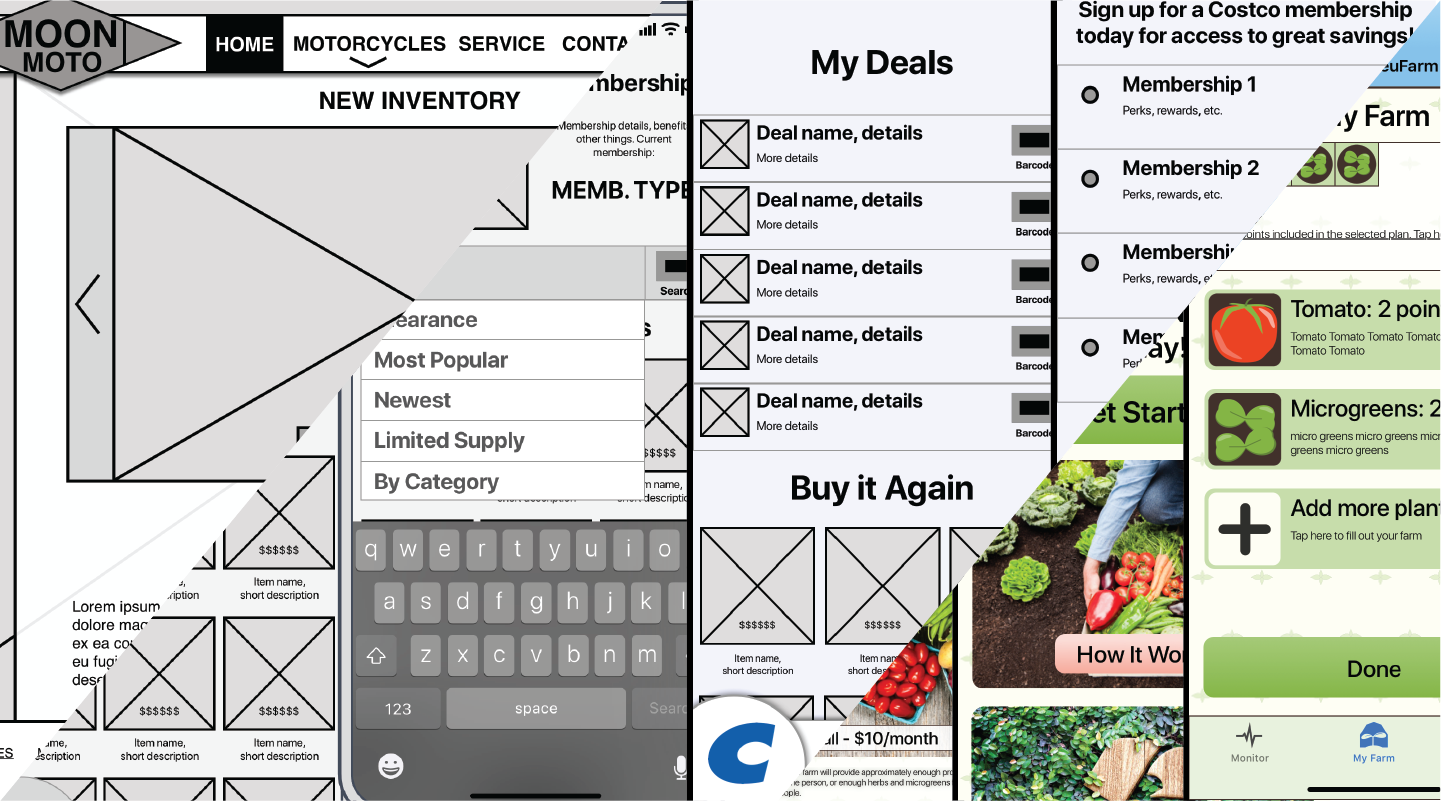
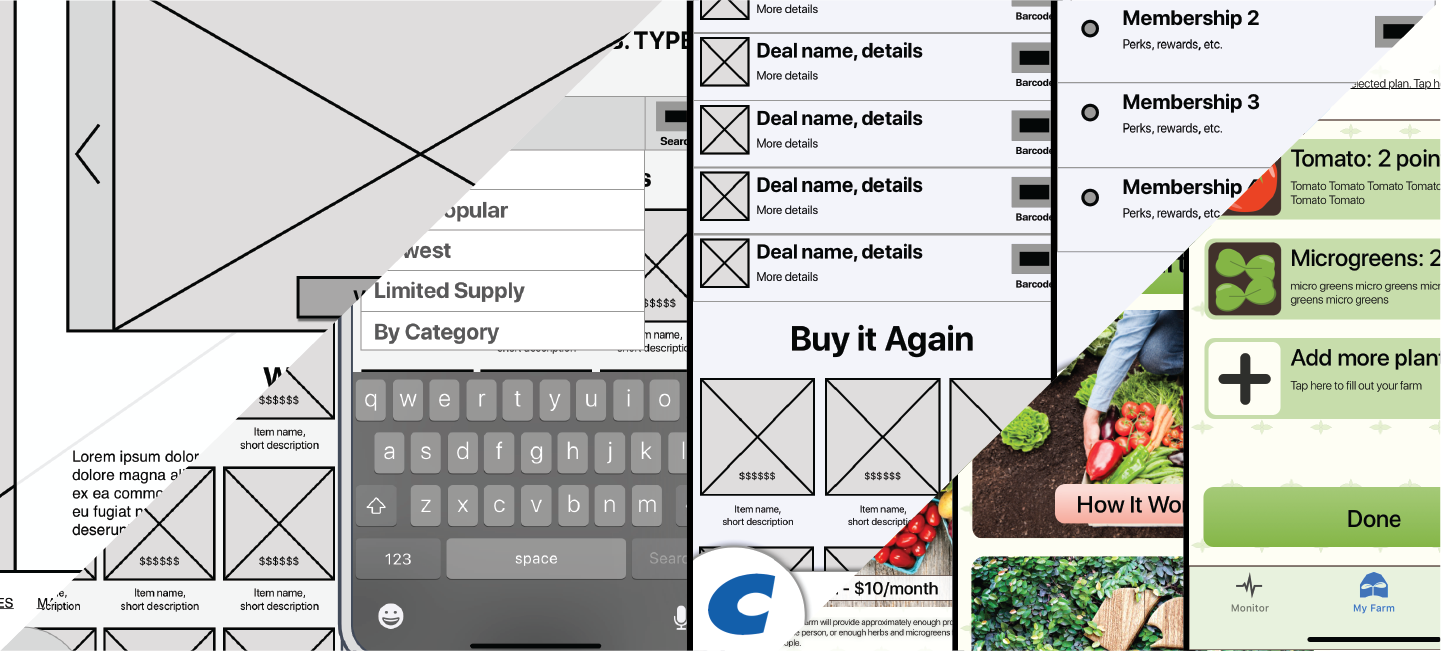
update

diff --git a/index.html b/index.html
@@ -42,24 +42,22 @@ rel="stylesheet">
       font-size: 80px;
       font-weight: bold;
       position: absolute;
-      left: 10%;
+      left: 7%;
       top: -65px;
     }
     .skillsImg {
       position: fixed;
+      left: 50%;
+      transform: translateX(-50%);
       top: 115px;
       display: block;
-      width: 100%;
-      border: 1px red solid;
-      background-image: url("PortfolioOverlays_MVP image.png")
+      width: 99%;
+      background-image: url("PortfolioOverlays_MVP image.png");
+      background-size: 100%;
+      background-repeat: no-repeat;
+      max-width: 1440px;
+      max-height: 700px;
     }
-    /*.skills {
-      z-index: -1;
-      display: block;
-      position: absolute;
-      top: -1px;
-      width: 100%;
-    }*/
     nav {
       display: inline;
       position: absolute;
@@ -69,7 +67,7 @@ rel="stylesheet">
       height: 0px;
     }
     .contact, .about {
-      padding: 20.5px 30px;
+      padding: 20.5px 15px;
       background-color: none;
       display: inline;
       text-decoration: none;
@@ -158,18 +156,20 @@ rel="stylesheet">
     }
 
 
+
     </style>
     <a href="MoonMotorcyces.html"><g id="panel1">
-      <polygon class="a" points="754.38 13.68 92.54 813.68 92.4 813.68 92.4 13.68 754.38 13.68"/>
-      <text class="ta" transform="translate(250 77)">Moon Motorcycles</text>
+      <polygon class="a" points="661.98 0 0.14 800 0 800 0 0 661.98 0"/>
+      <text class="ta" transform="translate(100 130)">Moon</text>
+      <text class="ta" transform="translate(100 180)">Motorcycles</text>
     </g></a>
     <a href="Costco.html"><g id="panel2">
-      <polygon class="b" points="1532.4 13.68 1532.4 13.86 870.7 813.68 92.54 813.68 754.38 13.68 1532.4 13.68"/>
+      <polygon class="b" points="1440 0 1440 0.18 778.3 800 0.14 800 661.98 0 1440 0"/>
       <text class="tb" transform="translate(800 262)">Costco</text>
     </g></a>
     <a href="NeuFarms.html"><g id="panel3">
-      <polygon class="c" points="1532.4 13.86 1532.4 813.68 870.7 813.68 1532.4 13.86"/>
-      <text class="tc" transform="translate(1224 501)">NeuFarms</text>
+      <polygon class="c" points="1440 0.18 1440 800 778.3 800 1440 0.18"/>
+      <text class="tc" transform="translate(1100 670)">NeuFarms</text>
     </g></a>
   </svg>
   <!--<img class="skills" src="PortfolioOverlays_MVP image.png"/>-->
@@ -190,17 +190,22 @@ var changestyleb = document.getElementsByClassName("b")[0];
 var changestylec = document.getElementsByClassName("c")[0];
 
 
-var texta = document.getElementsByClassName("ta")[0];
+var texta1 = document.getElementsByClassName("ta")[0];
+var texta2 = document.getElementsByClassName("ta")[1];
 var textb = document.getElementsByClassName("tb")[0];
 var textc = document.getElementsByClassName("tc")[0];
 
 function panelHovera() {
   changestylea.style.animation = "overlay .5s both";
-  texta.style.animation = "textOpacity .25s both";
+  texta1.style.animation = "textOpacity .25s both";
+  texta2.style.animation = "textOpacity .25s both";
+
 }
 function noverlayHovera() {
   changestylea.style.animation = "noverlay .25s both";
-  texta.style.animation = "textNopacity .25s both";
+  texta1.style.animation = "textNopacity .25s both";
+  texta2.style.animation = "textNopacity .25s both";
+
 }
 function panelHoverb() {
   changestyleb.style.animation = "overlay .5s both";
